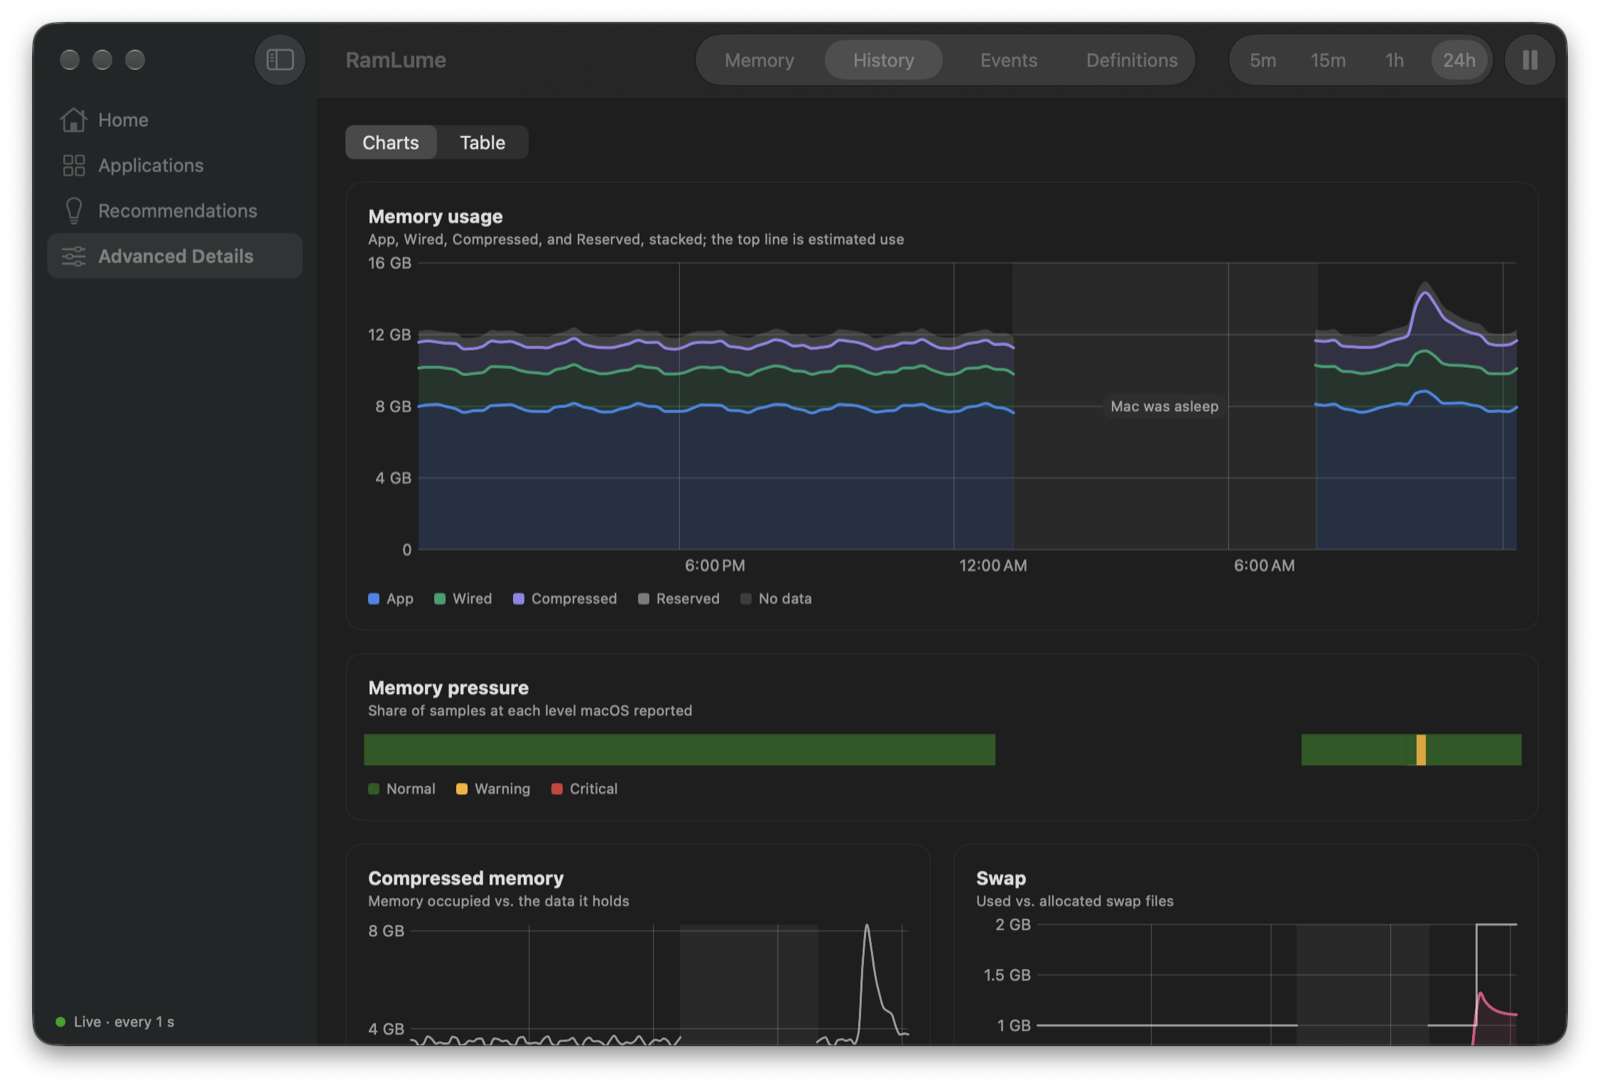
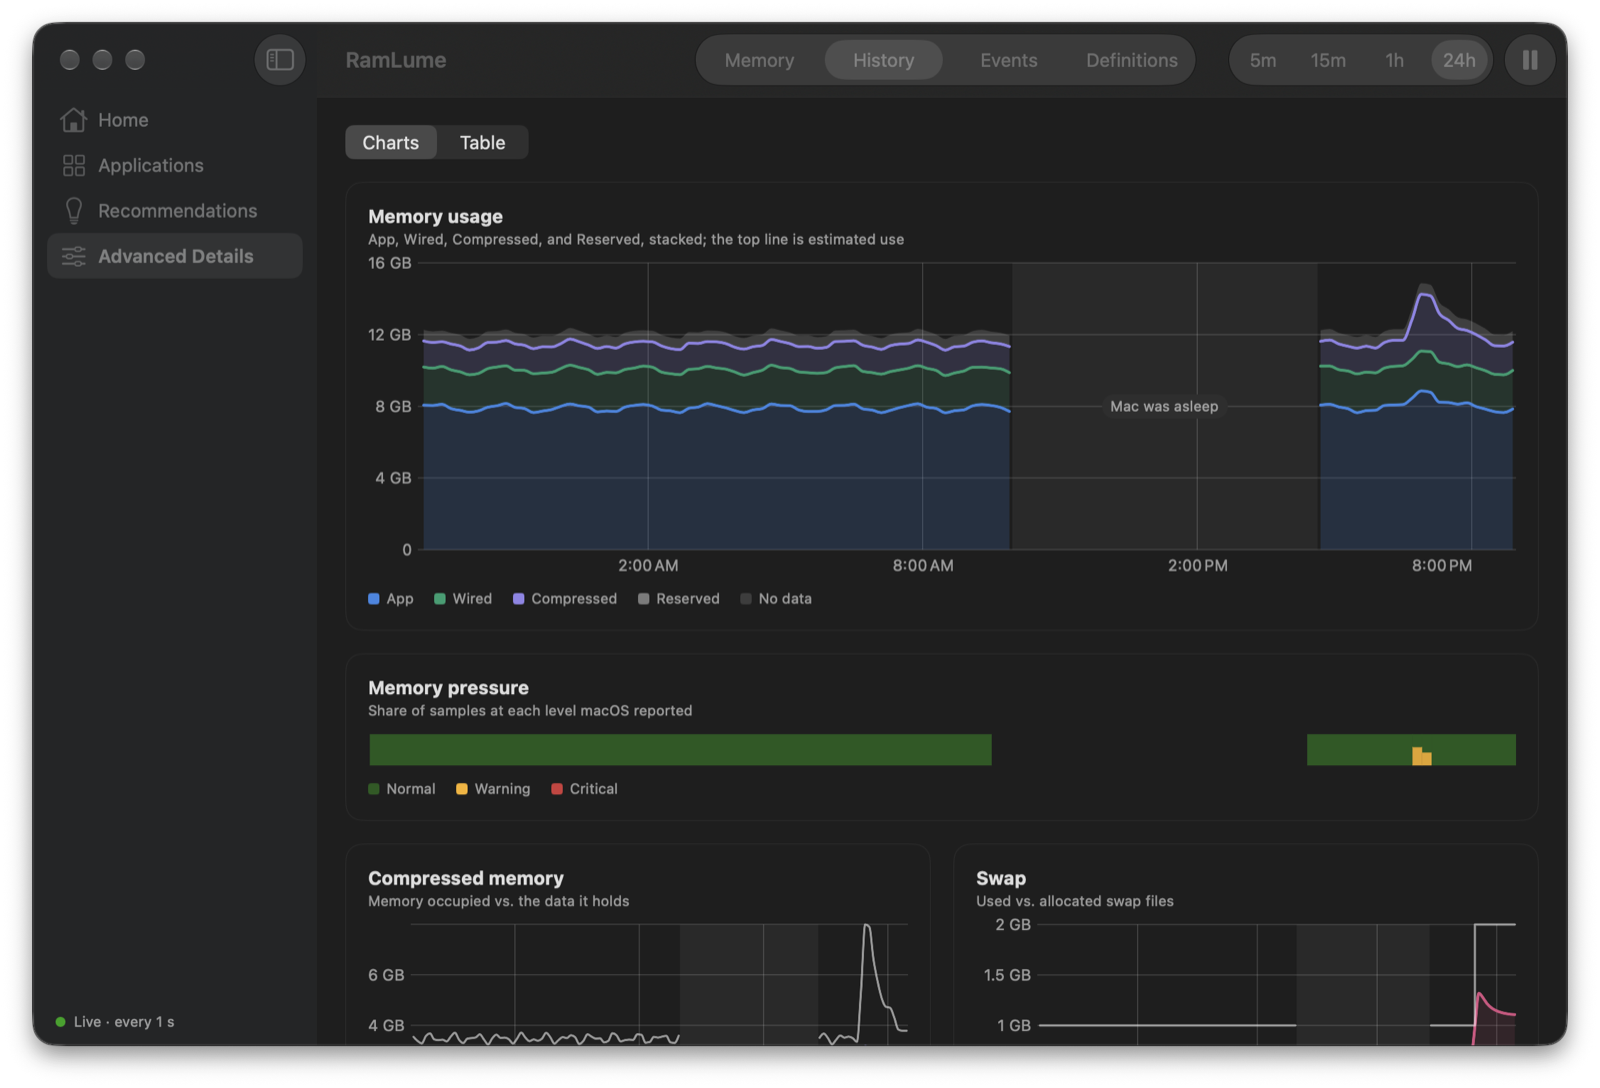
Keep Home's first cards in view and center chart time labels
Memory details move below the largest apps and the recommendation, so
Home's status, chart, apps, and recommendation fit in the default
window again without scrolling.

The time labels were meant to be centered under their grid lines, but
Swift Charts on macOS 27 ignores the `.top` label anchor (it logs
"Custom UnitPoint values are not supported") and starts each label at
its line, so the last label could also stick out past the chart. Each
label now sits in a 1-point frame it overflows evenly, which centers it
on its line without relying on the anchor; in the outer tenth of the
axis at either end, labels extend inwards instead. The Home and History
screenshots are retaken.

diff --git a/RamLume/UI/Components/HistoryCharts.swift b/RamLume/UI/Components/HistoryCharts.swift
@@ -21,12 +21,22 @@ private func gapTooltip(_ gap: HistoryGap) -> ChartTooltip {
     )
 }
 
-/// Standard time axis for a range. Labels are centered under their grid lines (by default Swift
-/// Charts starts each date label at its line, which reads as if labels and lines don't match).
-private func timeAxis(_ range: ChartRange) -> some AxisContent {
-    AxisMarks(values: .automatic(desiredCount: 5)) { _ in
+/// Standard time axis for a series. Labels are centered under their grid lines (by default Swift
+/// Charts starts each date label at its line, which reads as if labels and lines don't match, and
+/// recent versions ignore a label's `anchor`). A label in a 1-point frame overflows it evenly, so
+/// it centers on its line; near either end of the axis it extends inwards instead.
+private func timeAxis(_ series: HistorySeries) -> some AxisContent {
+    let format = ChartFormatting.timeFormat(for: series.range)
+    let domain = series.domain
+    return AxisMarks(values: .automatic(desiredCount: 5)) { value in
         AxisGridLine(stroke: StrokeStyle(lineWidth: 0.5))
-        AxisValueLabel(format: ChartFormatting.timeFormat(for: range), anchor: .top)
+        AxisValueLabel(horizontalSpacing: 0) {
+            if let date = value.as(Date.self) {
+                Text(date, format: format)
+                    .fixedSize()
+                    .frame(width: 1, alignment: ChartFormatting.timeLabelAlignment(for: date, in: domain))
+            }
+        }
     }
 }
 
@@ -96,7 +106,7 @@ struct MemoryUsageChart: View {
         .clipsMarksToPlot()
         .chartYScale(domain: 0...max(total, 1))
         .chartLegend(.hidden)
-        .chartXAxis { timeAxis(series.range) }
+        .chartXAxis { timeAxis(series) }
         .chartYAxis { byteAxis(maximum: total) }
         .chartOverlay { proxy in
             ChartCrosshair(
@@ -222,7 +232,7 @@ struct CompressionChart: View {
         .chartXScale(domain: series.domain)
         .clipsMarksToPlot()
         .chartYScale(domain: 0...maximum)
-        .chartXAxis { timeAxis(series.range) }
+        .chartXAxis { timeAxis(series) }
         .chartYAxis { byteAxis(maximum: maximum) }
         .chartOverlay { proxy in
             ChartCrosshair(
@@ -281,7 +291,7 @@ struct SwapChart: View {
         .chartXScale(domain: series.domain)
         .clipsMarksToPlot()
         .chartYScale(domain: 0...maximum)
-        .chartXAxis { timeAxis(series.range) }
+        .chartXAxis { timeAxis(series) }
         .chartYAxis { byteAxis(maximum: maximum) }
         .chartOverlay { proxy in
             ChartCrosshair(
@@ -477,7 +487,7 @@ struct SwapActivityChart: View {
         .chartXScale(domain: series.domain)
         .clipsMarksToPlot()
         .chartYScale(domain: 0...maximum)
-        .chartXAxis { timeAxis(series.range) }
+        .chartXAxis { timeAxis(series) }
         .chartYAxis {
             AxisMarks(position: .leading, values: .automatic(desiredCount: 3)) { value in
                 AxisGridLine(stroke: StrokeStyle(lineWidth: 0.5))

diff --git a/RamLumeTests/UI/ChartDataTests.swift b/RamLumeTests/UI/ChartDataTests.swift
@@ -1,4 +1,5 @@
 import Foundation
+import SwiftUI
 import Testing
 @testable import RamLume
 
@@ -107,6 +108,16 @@ struct ChartDataTests {
         #expect(gaps.allSatisfy { visible.domain.contains($0.start) && visible.domain.contains($0.end) })
         // Hover still reports the whole gap.
         #expect(visible.gap(containing: rangeStart.addingTimeInterval(60)) == visible.gaps[0])
+    }
+
+    // MARK: Time axis
+
+    @Test func timeLabelsCenterOnTheirLinesExceptNearTheEnds() {
+        let domain = start...start.addingTimeInterval(1_000)
+        #expect(ChartFormatting.timeLabelAlignment(for: start.addingTimeInterval(50), in: domain) == .leading)
+        #expect(ChartFormatting.timeLabelAlignment(for: start.addingTimeInterval(500), in: domain) == .center)
+        #expect(ChartFormatting.timeLabelAlignment(for: start.addingTimeInterval(950), in: domain) == .trailing)
+        #expect(ChartFormatting.timeLabelAlignment(for: start, in: start...start) == .center)
     }
 
     // MARK: Pressure timeline

diff --git a/RamLume/UI/Dashboard/HomeView.swift b/RamLume/UI/Dashboard/HomeView.swift
@@ -12,12 +12,13 @@ struct HomeView: View {
                     let figures = MemoryFigures(snapshot)
                     HomeHealthCard(summary: HealthSummary(assessment: monitor.health, figures: figures, pressure: monitor.pressure.level))
                         .equatable()
-                    HomeDetailsCard(figures: figures, pressure: monitor.pressure.level)
                     HomeUsageCard()
                     AdaptiveRow(threshold: 760) {
                         HomeTopAppsCard()
                         HomeRecommendationCard()
                     }
+                    // Below the three questions Home answers first, so they stay in view.
+                    HomeDetailsCard(figures: figures, pressure: monitor.pressure.level)
                 } else {
                     DashboardUnavailableView(error: monitor.readError)
                 }

diff --git a/RamLume/UI/Components/ChartSupport.swift b/RamLume/UI/Components/ChartSupport.swift
@@ -90,6 +90,17 @@ enum ChartFormatting {
         }
     }
 
+    /// Time labels center on their grid lines, except in the outer tenth of the axis at each end,
+    /// where a centered label could stick out past the chart: there they extend inwards.
+    static func timeLabelAlignment(for date: Date, in domain: ClosedRange<Date>) -> Alignment {
+        let span = domain.upperBound.timeIntervalSince(domain.lowerBound)
+        guard span > 0 else { return .center }
+        let position = date.timeIntervalSince(domain.lowerBound) / span
+        if position < 0.1 { return .leading }
+        if position > 0.9 { return .trailing }
+        return .center
+    }
+
     static func tooltipTime(for point: HistoryPoint) -> String {
         if point.duration <= 0 {
             return point.start.formatted(.dateTime.hour().minute().second())

diff --git a/CHANGELOG.md b/CHANGELOG.md
@@ -4,6 +4,19 @@ All notable changes to RamLume are documented here. The format follows
 [Keep a Changelog](https://keepachangelog.com/en/1.1.0/), and the project uses
 [Semantic Versioning](https://semver.org/).
 
+## [Unreleased]
+
+### Changed
+
+- Home shows the memory details below the largest apps and the recommendation, so the status,
+  the chart, the apps, and the recommendation fit in the window without scrolling.
+
+### Fixed
+
+- Chart time labels started at their grid lines instead of being centered under them: Swift
+  Charts on macOS 27 ignores the label anchor RamLume used. Labels are now centered, and those
+  near either end of the axis extend inwards instead of sticking out past the chart.
+
 ## [0.1.0] — 2026-10-30
 
 First public version. Release notes: [docs/release-notes/v0.1.0.md](docs/release-notes/v0.1.0.md).
@@ -87,4 +100,5 @@ First public version. Release notes: [docs/release-notes/v0.1.0.md](docs/release
   doesn't document; see [docs/memory-metrics.md](docs/memory-metrics.md) for why and for the
   fallback.
 
+[Unreleased]: https://github.com/13nik09/ramlume/compare/v0.1.0...HEAD
 [0.1.0]: https://github.com/13nik09/ramlume/releases/tag/v0.1.0

diff --git a/README.md b/README.md
@@ -14,7 +14,7 @@ macOS kernel, never guesses, and runs entirely on your Mac.
 
 <picture>
   <source media="(prefers-color-scheme: dark)" srcset="docs/images/home-dark.png">
-  <img alt="RamLume's Home page: the health status in one sentence, the memory figures Activity Monitor shows, and memory in use over 24 hours with a night's sleep shown as a gap" src="docs/images/home-light.png">
+  <img alt="RamLume's Home page: the health status in one sentence, memory in use over 24 hours with a night's sleep shown as a gap, the largest apps, and the current recommendation" src="docs/images/home-light.png">
 </picture>
 
 <sub>Screenshots show example data.</sub>
